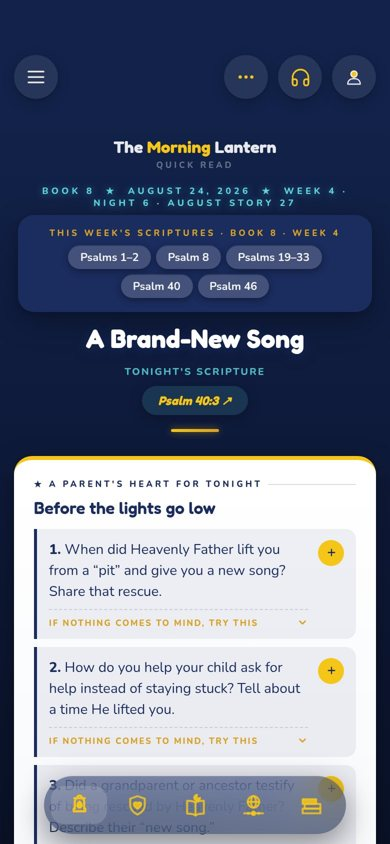
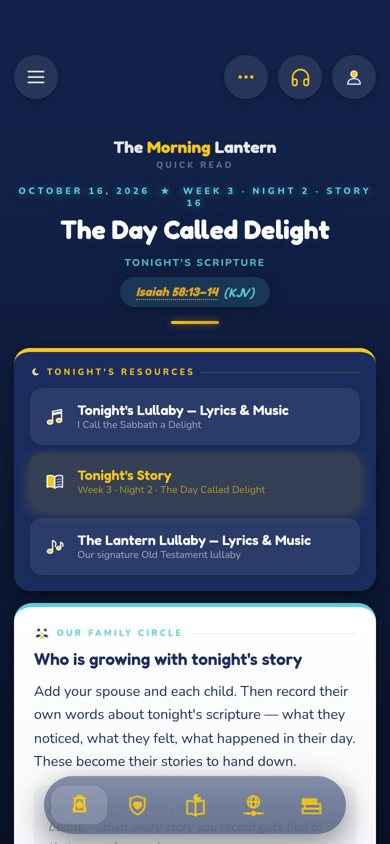
Website: tonight's night in every picture - the Morning Lantern as the app shows it, its picture book, its lullaby's Lyrics, and the same story in the phone
Claude-Session: https://claude.ai/code/session_01PEnLUDwqFrrjJZBH17T5JA

diff --git a/index.html b/index.html
@@ -790,7 +790,7 @@
           }
           </script>
           <div class="sd-phone"><span class="sd-notch" aria-hidden="true"></span>
-            <iframe class="sd-screen" id="sdStory" src="lantern/he-carries-the-lambs/he-carries-the-lambs.html" loading="lazy" title="He Carries the Lambs, a Little Scripture Travelers story to flip through"
+            <iframe class="sd-screen" id="sdStory" src="lantern/the-day-called-delight/the-day-called-delight.html" loading="lazy" title="The Day Called Delight, a Little Scripture Travelers story to flip through"
               onload="sdDress(this)"></iframe>
             <iframe class="sd-screen sd-song" id="sdSong" hidden title="The story's lullaby" onload="sdDress(this)"></iframe>
             <button type="button" class="sd-back" id="sdBack" hidden onclick="sdBackToStory()">&lsaquo; Back to the story</button>
@@ -825,7 +825,7 @@
                 <span class="perk-eye" title="See it in the app">&#128065;</span>
                 <div class="perk-popup">
                   <div class="perk-popup-media" data-product="app-lantern" data-app-shot="images/app/app-lantern.jpg" data-app-title="The Morning Lantern" data-app-desc="Waiting by 5 AM every morning: tonight’s scripture, the gospel principle behind it, and the background that brings it to life. Pick Quick for a few minutes, Medium for a little more, or Deep for a full study. A Parent’s Heart gives you three questions to ponder all day, so you reach bedtime with your own story ready to share. It comes in two editions, The Church of Jesus Christ of Latter-day Saints and Christian, each read aloud in its own recording." style="cursor:zoom-in;">
-                    <img class="app-thumb" src="images/app/app-lantern.jpg" alt="The Morning Lantern in the app, with this week’s scriptures, tonight’s scripture and A Parent’s Heart questions" loading="lazy" style="width:100%;border-radius:20px;display:block;">
+                    <img class="app-thumb" src="images/app/app-lantern.jpg" alt="The Morning Lantern in the app: tonight’s scripture and Tonight’s Resources, the lullaby, the story and the Lantern Lullaby" loading="lazy" style="width:100%;border-radius:20px;display:block;">
                     <div style="text-align:center;font-family: var(--font-body);font-size:0.65rem;color:var(--gold-ink-70);margin-top:4px;">Click to see it full size &#8599;</div>
                   </div>
                   <strong class="perk-popup-name">The Morning Lantern</strong>
@@ -1012,7 +1012,7 @@
           <h3>Everything in The Lantern, on your phone</h3>
           <p class="app-tour-sub">These are real screens from the Little Scripture Travelers app. Tap any one to see it bigger.</p>
           <div class="app-tour-track">
-            <button type="button" class="app-shot" data-app-shot="images/app/app-lantern.jpg" data-app-title="The Morning Lantern" data-app-desc="Waiting by 5 AM every morning: tonight’s scripture, the gospel principle behind it, and the background that brings it to life. Pick Quick for a few minutes, Medium for a little more, or Deep for a full study. A Parent’s Heart gives you three questions to ponder all day, so you reach bedtime with your own story ready to share. It comes in two editions, The Church of Jesus Christ of Latter-day Saints and Christian, each read aloud in its own recording." aria-label="See The Morning Lantern full size"><span class="app-shot-phone"><img src="images/app/app-lantern.jpg" alt="The Morning Lantern in the app, with this week’s scriptures, tonight’s scripture and A Parent’s Heart questions" loading="lazy" width="390" height="844"></span><span class="app-shot-cap">The Morning Lantern<span class="app-shot-line">Quick, Medium or Deep</span></span></button>
+            <button type="button" class="app-shot" data-app-shot="images/app/app-lantern.jpg" data-app-title="The Morning Lantern" data-app-desc="Waiting by 5 AM every morning: tonight’s scripture, the gospel principle behind it, and the background that brings it to life. Pick Quick for a few minutes, Medium for a little more, or Deep for a full study. A Parent’s Heart gives you three questions to ponder all day, so you reach bedtime with your own story ready to share. It comes in two editions, The Church of Jesus Christ of Latter-day Saints and Christian, each read aloud in its own recording." aria-label="See The Morning Lantern full size"><span class="app-shot-phone"><img src="images/app/app-lantern.jpg" alt="The Morning Lantern in the app: tonight’s scripture and Tonight’s Resources, the lullaby, the story and the Lantern Lullaby" loading="lazy" width="390" height="844"></span><span class="app-shot-cap">The Morning Lantern<span class="app-shot-line">Quick, Medium or Deep</span></span></button>
             <button type="button" class="app-shot" data-app-shot="images/app/app-story.jpg" data-app-title="A New Bedtime Story Every Night" data-app-desc="A short, gentle scripture story for every night, told in the smallest words that still carry the meaning, with one of the four Travelers beside it. It is a picture book you flip through on the phone: a big picture and a few lines on every page. Read it to your children yourself, or tap the headphones and the app reads it aloud. On the last page, one tap opens tonight’s song." aria-label="See A New Bedtime Story Every Night full size"><span class="app-shot-phone"><img src="images/app/app-story.jpg" alt="Tonight’s picture book in the app, a big picture and a few lines on each page" loading="lazy" width="390" height="844"></span><span class="app-shot-cap">A New Bedtime Story Every Night<span class="app-shot-line">A new one every night</span></span></button>
             <button type="button" class="app-shot" data-app-shot="images/app/app-songs.jpg" data-app-title="Tonight’s Song &amp; the Lantern Lullaby" data-app-desc="Every story has a song of its own, and the Lantern Lullaby is the same comforting song every night, so your child knows bedtime is here. The lyrics sit right under the player, each line lighting up as it is sung. Tap a line and the song starts from there. The Lantern Lullaby plays with one tap from the Lullabies page." aria-label="See Tonight’s Song &amp; the Lantern Lullaby full size"><span class="app-shot-phone"><img src="images/app/app-songs.jpg" alt="A lullaby in the app’s player, the line being sung lit up" loading="lazy" width="390" height="844"></span><span class="app-shot-cap">Tonight’s Song &amp; the Lantern Lullaby<span class="app-shot-line">Lyrics to sing along</span></span></button>
             <button type="button" class="app-shot" data-app-shot="images/app/app-library.jpg" data-app-title="The Virtue Library" data-app-desc="Your child is facing something real tonight: a fib, a lost temper, a hard goodbye. Look it up by virtue, by character, by life situation, by feeling or by scripture, and the story that fits is already there." aria-label="See The Virtue Library full size"><span class="app-shot-phone"><img src="images/app/app-library.jpg" alt="The Virtue Library in the app, with stories sorted by virtue" loading="lazy" width="390" height="844"></span><span class="app-shot-cap">The Virtue Library<span class="app-shot-line">Find tonight’s story</span></span></button>

diff --git a/subscribe.html b/subscribe.html
@@ -1198,7 +1198,7 @@
           }
           </script>
           <div class="sd-phone"><span class="sd-notch" aria-hidden="true"></span>
-            <iframe class="sd-screen" id="sdStory" src="lantern/he-carries-the-lambs/he-carries-the-lambs.html" loading="lazy" title="He Carries the Lambs, a Little Scripture Travelers story to flip through"
+            <iframe class="sd-screen" id="sdStory" src="lantern/the-day-called-delight/the-day-called-delight.html" loading="lazy" title="The Day Called Delight, a Little Scripture Travelers story to flip through"
               onload="sdDress(this)"></iframe>
             <iframe class="sd-screen sd-song" id="sdSong" hidden title="The story's lullaby" onload="sdDress(this)"></iframe>
             <button type="button" class="sd-back" id="sdBack" hidden onclick="sdBackToStory()">&lsaquo; Back to the story</button>
@@ -1228,7 +1228,7 @@
               <span class="perk-eye" title="See it in the app">&#128065;</span>
               <div class="perk-popup">
                 <div class="perk-popup-media" data-product="app-lantern" data-app-shot="images/app/app-lantern.jpg" data-app-title="The Morning Lantern" data-app-desc="Waiting by 5 AM every morning: tonight’s scripture, the gospel principle behind it, and the background that brings it to life. Pick Quick for a few minutes, Medium for a little more, or Deep for a full study. A Parent’s Heart gives you three questions to ponder all day, so you reach bedtime with your own story ready to share. It comes in two editions, The Church of Jesus Christ of Latter-day Saints and Christian, each read aloud in its own recording." style="cursor:zoom-in;">
-                  <img class="app-thumb" src="images/app/app-lantern.jpg" alt="The Morning Lantern in the app, with this week’s scriptures, tonight’s scripture and A Parent’s Heart questions" loading="lazy" style="width:100%;border-radius:20px;display:block;">
+                  <img class="app-thumb" src="images/app/app-lantern.jpg" alt="The Morning Lantern in the app: tonight’s scripture and Tonight’s Resources, the lullaby, the story and the Lantern Lullaby" loading="lazy" style="width:100%;border-radius:20px;display:block;">
                   <div style="text-align:center;font-family: var(--font-body);font-size:0.65rem;color:var(--gold-ink-70);margin-top:4px;">Click to see it full size &#8599;</div>
                 </div>
                 <strong class="perk-popup-name">The Morning Lantern</strong>
@@ -1432,7 +1432,7 @@
         <h2>Everything in The Lantern, on your phone</h2>
         <p class="app-tour-sub">These are real screens from the Little Scripture Travelers app. Tap any one to see it bigger.</p>
         <div class="app-tour-track">
-          <button type="button" class="app-shot" data-app-shot="images/app/app-lantern.jpg" data-app-title="The Morning Lantern" data-app-desc="Waiting by 5 AM every morning: tonight’s scripture, the gospel principle behind it, and the background that brings it to life. Pick Quick for a few minutes, Medium for a little more, or Deep for a full study. A Parent’s Heart gives you three questions to ponder all day, so you reach bedtime with your own story ready to share. It comes in two editions, The Church of Jesus Christ of Latter-day Saints and Christian, each read aloud in its own recording." aria-label="See The Morning Lantern full size"><span class="app-shot-phone"><img src="images/app/app-lantern.jpg" alt="The Morning Lantern in the app, with this week’s scriptures, tonight’s scripture and A Parent’s Heart questions" loading="lazy" width="390" height="844"></span><span class="app-shot-cap">The Morning Lantern<span class="app-shot-line">Quick, Medium or Deep</span></span></button>
+          <button type="button" class="app-shot" data-app-shot="images/app/app-lantern.jpg" data-app-title="The Morning Lantern" data-app-desc="Waiting by 5 AM every morning: tonight’s scripture, the gospel principle behind it, and the background that brings it to life. Pick Quick for a few minutes, Medium for a little more, or Deep for a full study. A Parent’s Heart gives you three questions to ponder all day, so you reach bedtime with your own story ready to share. It comes in two editions, The Church of Jesus Christ of Latter-day Saints and Christian, each read aloud in its own recording." aria-label="See The Morning Lantern full size"><span class="app-shot-phone"><img src="images/app/app-lantern.jpg" alt="The Morning Lantern in the app: tonight’s scripture and Tonight’s Resources, the lullaby, the story and the Lantern Lullaby" loading="lazy" width="390" height="844"></span><span class="app-shot-cap">The Morning Lantern<span class="app-shot-line">Quick, Medium or Deep</span></span></button>
           <button type="button" class="app-shot" data-app-shot="images/app/app-story.jpg" data-app-title="A New Bedtime Story Every Night" data-app-desc="A short, gentle scripture story for every night, told in the smallest words that still carry the meaning, with one of the four Travelers beside it. It is a picture book you flip through on the phone: a big picture and a few lines on every page. Read it to your children yourself, or tap the headphones and the app reads it aloud. On the last page, one tap opens tonight’s song." aria-label="See A New Bedtime Story Every Night full size"><span class="app-shot-phone"><img src="images/app/app-story.jpg" alt="Tonight’s picture book in the app, a big picture and a few lines on each page" loading="lazy" width="390" height="844"></span><span class="app-shot-cap">A New Bedtime Story Every Night<span class="app-shot-line">A new one every night</span></span></button>
           <button type="button" class="app-shot" data-app-shot="images/app/app-songs.jpg" data-app-title="Tonight’s Song &amp; the Lantern Lullaby" data-app-desc="Every story has a song of its own, and the Lantern Lullaby is the same comforting song every night, so your child knows bedtime is here. The lyrics sit right under the player, each line lighting up as it is sung. Tap a line and the song starts from there. The Lantern Lullaby plays with one tap from the Lullabies page." aria-label="See Tonight’s Song &amp; the Lantern Lullaby full size"><span class="app-shot-phone"><img src="images/app/app-songs.jpg" alt="A lullaby in the app’s player, the line being sung lit up" loading="lazy" width="390" height="844"></span><span class="app-shot-cap">Tonight’s Song &amp; the Lantern Lullaby<span class="app-shot-line">Lyrics to sing along</span></span></button>
           <button type="button" class="app-shot" data-app-shot="images/app/app-library.jpg" data-app-title="The Virtue Library" data-app-desc="Your child is facing something real tonight: a fib, a lost temper, a hard goodbye. Look it up by virtue, by character, by life situation, by feeling or by scripture, and the story that fits is already there." aria-label="See The Virtue Library full size"><span class="app-shot-phone"><img src="images/app/app-library.jpg" alt="The Virtue Library in the app, with stories sorted by virtue" loading="lazy" width="390" height="844"></span><span class="app-shot-cap">The Virtue Library<span class="app-shot-line">Find tonight’s story</span></span></button>
